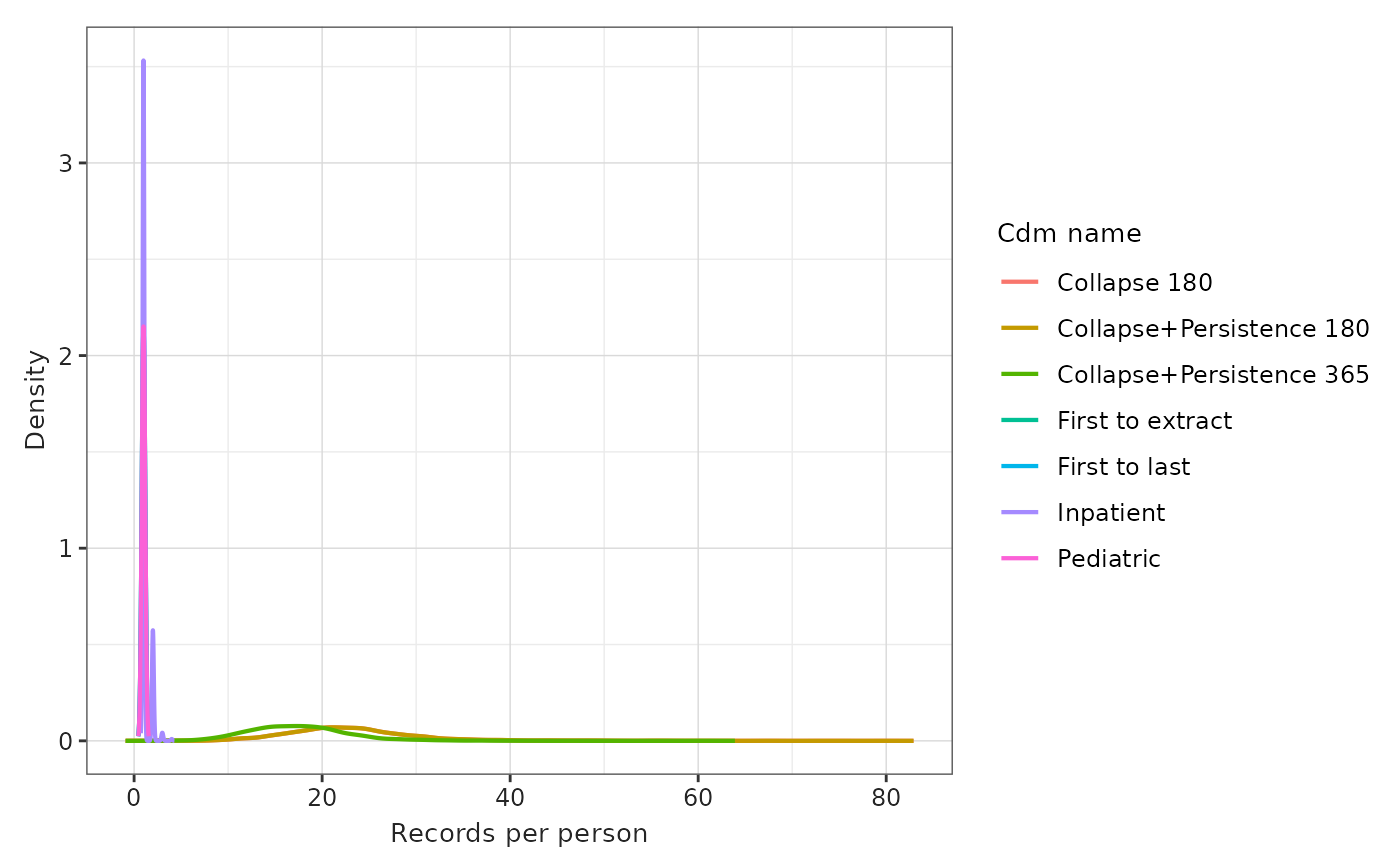
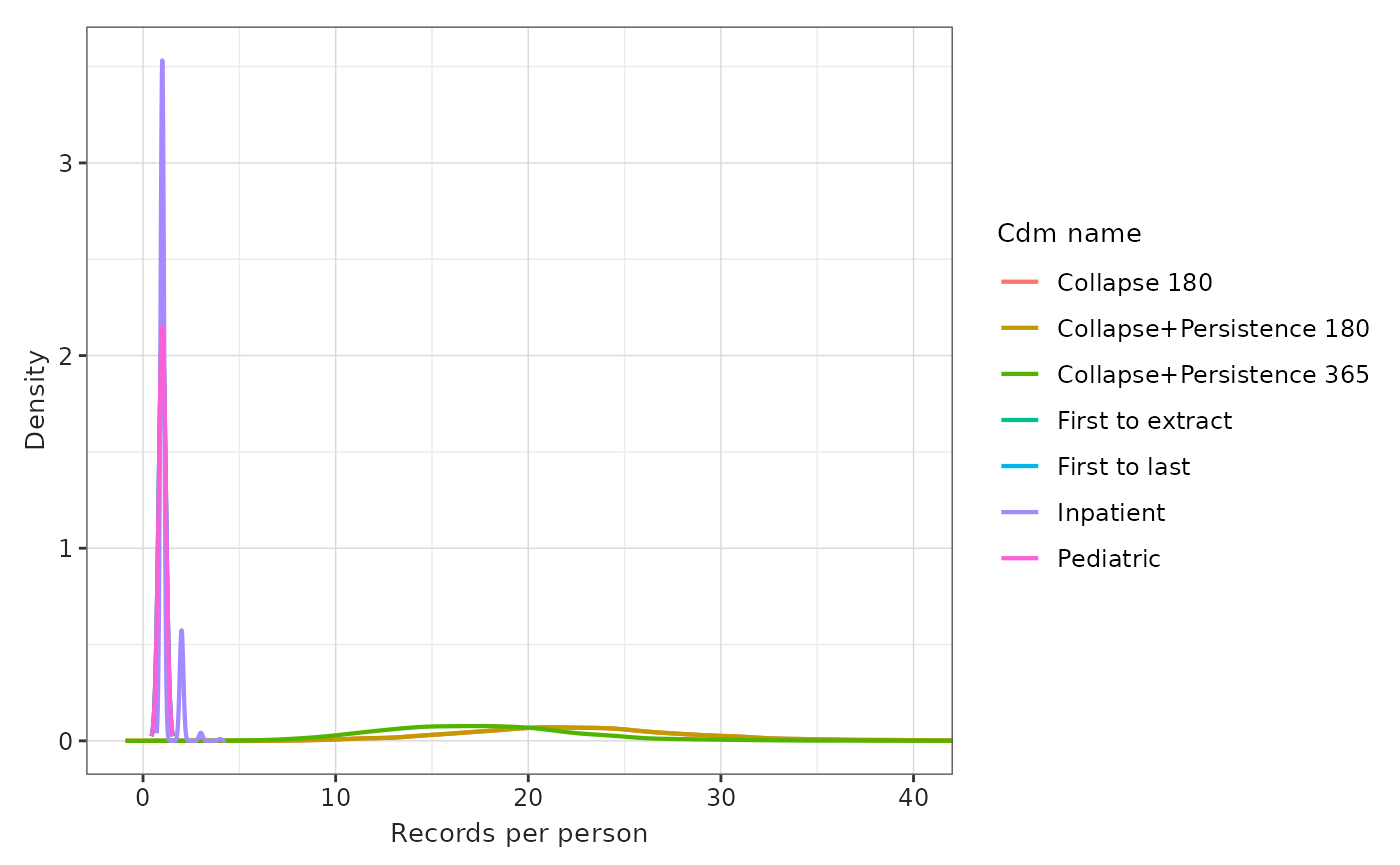
Deploying to gh-pages from @ OHDSI/OmopConstructor@dbc69780eb3df9485f834a7af5ba7b5c8294376d 🚀

diff --git a/articles/generateObservationPeriod.html b/articles/generateObservationPeriod.html
@@ -190,11 +190,17 @@ compare the different definitions at the end.</p>
 <code>censorAge = 120</code> and
 <code>censorDate = as.Date("2020-01-01")</code>. Note also that if a
 death record is in the database the person will automatically be
-censored that day.</p>
+censored that day. Unless otherwise specified by adjusting the
+<code>recordsFrom</code> argument, records contributing to the
+observation period are searched for in the following tables:
+<code>drug_exposure</code>, <code>condition_occurrence</code>,
+<code>procedure_occurrence</code>, <code>visit_occurrence</code>,
+<code>device_exposure</code>, <code>measurement</code>,
+<code>observation</code>, and <code>death</code>.</p>
 <div class="section level3">
 <h3 id="first-to-extraction">First to extraction<a class="anchor" aria-label="anchor" href="#first-to-extraction"></a>
 </h3>
-<p>To built observation period that span from the first record to the
+<p>To build observation period that span from the first record to the
 data extraction we will need to set the <code>collapseEra</code> and
 <code>persistenceWindow</code> to <code>Inf</code> as we want to span
 the observation period till the extraction of data.</p>
@@ -215,14 +221,14 @@ the observation period till the extraction of data.</p>
 <span>                                   output <span class="op">=</span> <span class="fu"><a href="https://rdrr.io/r/base/c.html" class="external-link">c</a></span><span class="op">(</span><span class="st">"person-days"</span>, <span class="st">"age"</span><span class="op">)</span><span class="op">)</span></span>
 <span><span class="co">#&gt; <span style="color: #00BBBB;">ℹ</span> The following estimates will be computed:</span></span>
 <span><span class="co">#&gt; <span style="color: #00BBBB;">•</span> age: median</span></span>
-<span><span class="co">#&gt; → Start summary of data, at 2025-09-10 15:06:32.786628</span></span>
+<span><span class="co">#&gt; → Start summary of data, at 2025-09-11 09:08:02.826287</span></span>
 <span><span class="co">#&gt; </span></span>
-<span><span class="co">#&gt; <span style="color: #00BB00;">✔</span> Summary finished, at 2025-09-10 15:06:32.862676</span></span>
+<span><span class="co">#&gt; <span style="color: #00BB00;">✔</span> Summary finished, at 2025-09-11 09:08:02.905022</span></span>
 <span><span class="co">#&gt; <span style="color: #00BBBB;">ℹ</span> The following estimates will be computed:</span></span>
 <span><span class="co">#&gt; <span style="color: #00BBBB;">•</span> age: median</span></span>
-<span><span class="co">#&gt; → Start summary of data, at 2025-09-10 15:06:34.514092</span></span>
+<span><span class="co">#&gt; → Start summary of data, at 2025-09-11 09:08:04.604296</span></span>
 <span><span class="co">#&gt; </span></span>
-<span><span class="co">#&gt; <span style="color: #00BB00;">✔</span> Summary finished, at 2025-09-10 15:06:34.655268</span></span>
+<span><span class="co">#&gt; <span style="color: #00BB00;">✔</span> Summary finished, at 2025-09-11 09:08:04.735399</span></span>
 <span></span>
 <span><span class="co"># change cdm_name to identify the different results objects</span></span>
 <span><span class="va">result1</span> <span class="op">&lt;-</span> <span class="fu"><a href="https://darwin-eu.github.io/omopgenerics/reference/bind.html" class="external-link">bind</a></span><span class="op">(</span><span class="va">result1a</span>, <span class="va">result1b</span><span class="op">)</span> <span class="op">|&gt;</span></span>
@@ -256,14 +262,14 @@ observation.</p>
 <span>                                   output <span class="op">=</span> <span class="fu"><a href="https://rdrr.io/r/base/c.html" class="external-link">c</a></span><span class="op">(</span><span class="st">"person-days"</span>, <span class="st">"age"</span><span class="op">)</span><span class="op">)</span></span>
 <span><span class="co">#&gt; <span style="color: #00BBBB;">ℹ</span> The following estimates will be computed:</span></span>
 <span><span class="co">#&gt; <span style="color: #00BBBB;">•</span> age: median</span></span>
-<span><span class="co">#&gt; → Start summary of data, at 2025-09-10 15:06:39.857143</span></span>
+<span><span class="co">#&gt; → Start summary of data, at 2025-09-11 09:08:09.791722</span></span>
 <span><span class="co">#&gt; </span></span>
-<span><span class="co">#&gt; <span style="color: #00BB00;">✔</span> Summary finished, at 2025-09-10 15:06:39.942081</span></span>
+<span><span class="co">#&gt; <span style="color: #00BB00;">✔</span> Summary finished, at 2025-09-11 09:08:09.875027</span></span>
 <span><span class="co">#&gt; <span style="color: #00BBBB;">ℹ</span> The following estimates will be computed:</span></span>
 <span><span class="co">#&gt; <span style="color: #00BBBB;">•</span> age: median</span></span>
-<span><span class="co">#&gt; → Start summary of data, at 2025-09-10 15:06:41.491076</span></span>
+<span><span class="co">#&gt; → Start summary of data, at 2025-09-11 09:08:11.459893</span></span>
 <span><span class="co">#&gt; </span></span>
-<span><span class="co">#&gt; <span style="color: #00BB00;">✔</span> Summary finished, at 2025-09-10 15:06:41.615027</span></span>
+<span><span class="co">#&gt; <span style="color: #00BB00;">✔</span> Summary finished, at 2025-09-11 09:08:11.608663</span></span>
 <span></span>
 <span><span class="co"># change cdm_name to identify the different results objects</span></span>
 <span><span class="va">result2</span> <span class="op">&lt;-</span> <span class="fu"><a href="https://darwin-eu.github.io/omopgenerics/reference/bind.html" class="external-link">bind</a></span><span class="op">(</span><span class="va">result2a</span>, <span class="va">result2b</span><span class="op">)</span> <span class="op">|&gt;</span></span>
@@ -301,14 +307,14 @@ denominator.</p>
 <span>                                   output <span class="op">=</span> <span class="fu"><a href="https://rdrr.io/r/base/c.html" class="external-link">c</a></span><span class="op">(</span><span class="st">"person-days"</span>, <span class="st">"age"</span><span class="op">)</span><span class="op">)</span></span>
 <span><span class="co">#&gt; <span style="color: #00BBBB;">ℹ</span> The following estimates will be computed:</span></span>
 <span><span class="co">#&gt; <span style="color: #00BBBB;">•</span> age: median</span></span>
-<span><span class="co">#&gt; → Start summary of data, at 2025-09-10 15:06:45.254752</span></span>
+<span><span class="co">#&gt; → Start summary of data, at 2025-09-11 09:08:15.421711</span></span>
 <span><span class="co">#&gt; </span></span>
-<span><span class="co">#&gt; <span style="color: #00BB00;">✔</span> Summary finished, at 2025-09-10 15:06:45.330321</span></span>
+<span><span class="co">#&gt; <span style="color: #00BB00;">✔</span> Summary finished, at 2025-09-11 09:08:15.505452</span></span>
 <span><span class="co">#&gt; <span style="color: #00BBBB;">ℹ</span> The following estimates will be computed:</span></span>
 <span><span class="co">#&gt; <span style="color: #00BBBB;">•</span> age: median</span></span>
-<span><span class="co">#&gt; → Start summary of data, at 2025-09-10 15:06:46.555108</span></span>
+<span><span class="co">#&gt; → Start summary of data, at 2025-09-11 09:08:16.779017</span></span>
 <span><span class="co">#&gt; </span></span>
-<span><span class="co">#&gt; <span style="color: #00BB00;">✔</span> Summary finished, at 2025-09-10 15:06:46.659151</span></span>
+<span><span class="co">#&gt; <span style="color: #00BB00;">✔</span> Summary finished, at 2025-09-11 09:08:16.877416</span></span>
 <span></span>
 <span><span class="co"># change cdm_name to identify the different results objects</span></span>
 <span><span class="va">result3</span> <span class="op">&lt;-</span> <span class="fu"><a href="https://darwin-eu.github.io/omopgenerics/reference/bind.html" class="external-link">bind</a></span><span class="op">(</span><span class="va">result3a</span>, <span class="va">result3b</span><span class="op">)</span> <span class="op">|&gt;</span></span>
@@ -338,14 +344,14 @@ after the records.</p>
 <span>                                   output <span class="op">=</span> <span class="fu"><a href="https://rdrr.io/r/base/c.html" class="external-link">c</a></span><span class="op">(</span><span class="st">"person-days"</span>, <span class="st">"age"</span><span class="op">)</span><span class="op">)</span></span>
 <span><span class="co">#&gt; <span style="color: #00BBBB;">ℹ</span> The following estimates will be computed:</span></span>
 <span><span class="co">#&gt; <span style="color: #00BBBB;">•</span> age: median</span></span>
-<span><span class="co">#&gt; → Start summary of data, at 2025-09-10 15:06:51.49395</span></span>
+<span><span class="co">#&gt; → Start summary of data, at 2025-09-11 09:08:21.710388</span></span>
 <span><span class="co">#&gt; </span></span>
-<span><span class="co">#&gt; <span style="color: #00BB00;">✔</span> Summary finished, at 2025-09-10 15:06:51.572844</span></span>
+<span><span class="co">#&gt; <span style="color: #00BB00;">✔</span> Summary finished, at 2025-09-11 09:08:21.792131</span></span>
 <span><span class="co">#&gt; <span style="color: #00BBBB;">ℹ</span> The following estimates will be computed:</span></span>
 <span><span class="co">#&gt; <span style="color: #00BBBB;">•</span> age: median</span></span>
-<span><span class="co">#&gt; → Start summary of data, at 2025-09-10 15:06:53.182265</span></span>
+<span><span class="co">#&gt; → Start summary of data, at 2025-09-11 09:08:23.439373</span></span>
 <span><span class="co">#&gt; </span></span>
-<span><span class="co">#&gt; <span style="color: #00BB00;">✔</span> Summary finished, at 2025-09-10 15:06:53.301718</span></span>
+<span><span class="co">#&gt; <span style="color: #00BB00;">✔</span> Summary finished, at 2025-09-11 09:08:23.549459</span></span>
 <span></span>
 <span><span class="co"># change cdm_name to identify the different results objects</span></span>
 <span><span class="va">result4</span> <span class="op">&lt;-</span> <span class="fu"><a href="https://darwin-eu.github.io/omopgenerics/reference/bind.html" class="external-link">bind</a></span><span class="op">(</span><span class="va">result4a</span>, <span class="va">result4b</span><span class="op">)</span> <span class="op">|&gt;</span></span>
@@ -375,14 +381,14 @@ well as we want to add 180 days after any record.</p>
 <span>                                   output <span class="op">=</span> <span class="fu"><a href="https://rdrr.io/r/base/c.html" class="external-link">c</a></span><span class="op">(</span><span class="st">"person-days"</span>, <span class="st">"age"</span><span class="op">)</span><span class="op">)</span></span>
 <span><span class="co">#&gt; <span style="color: #00BBBB;">ℹ</span> The following estimates will be computed:</span></span>
 <span><span class="co">#&gt; <span style="color: #00BBBB;">•</span> age: median</span></span>
-<span><span class="co">#&gt; → Start summary of data, at 2025-09-10 15:06:58.218616</span></span>
+<span><span class="co">#&gt; → Start summary of data, at 2025-09-11 09:08:28.456678</span></span>
 <span><span class="co">#&gt; </span></span>
-<span><span class="co">#&gt; <span style="color: #00BB00;">✔</span> Summary finished, at 2025-09-10 15:06:58.306367</span></span>
+<span><span class="co">#&gt; <span style="color: #00BB00;">✔</span> Summary finished, at 2025-09-11 09:08:28.545068</span></span>
 <span><span class="co">#&gt; <span style="color: #00BBBB;">ℹ</span> The following estimates will be computed:</span></span>
 <span><span class="co">#&gt; <span style="color: #00BBBB;">•</span> age: median</span></span>
-<span><span class="co">#&gt; → Start summary of data, at 2025-09-10 15:06:59.943988</span></span>
+<span><span class="co">#&gt; → Start summary of data, at 2025-09-11 09:08:30.233549</span></span>
 <span><span class="co">#&gt; </span></span>
-<span><span class="co">#&gt; <span style="color: #00BB00;">✔</span> Summary finished, at 2025-09-10 15:07:00.057716</span></span>
+<span><span class="co">#&gt; <span style="color: #00BB00;">✔</span> Summary finished, at 2025-09-11 09:08:30.359493</span></span>
 <span></span>
 <span><span class="co"># change cdm_name to identify the different results objects</span></span>
 <span><span class="va">result5</span> <span class="op">&lt;-</span> <span class="fu"><a href="https://darwin-eu.github.io/omopgenerics/reference/bind.html" class="external-link">bind</a></span><span class="op">(</span><span class="va">result5a</span>, <span class="va">result5b</span><span class="op">)</span> <span class="op">|&gt;</span></span>
@@ -410,14 +416,14 @@ analogously to the previous definition.</p>
 <span>                                   output <span class="op">=</span> <span class="fu"><a href="https://rdrr.io/r/base/c.html" class="external-link">c</a></span><span class="op">(</span><span class="st">"person-days"</span>, <span class="st">"age"</span><span class="op">)</span><span class="op">)</span></span>
 <span><span class="co">#&gt; <span style="color: #00BBBB;">ℹ</span> The following estimates will be computed:</span></span>
 <span><span class="co">#&gt; <span style="color: #00BBBB;">•</span> age: median</span></span>
-<span><span class="co">#&gt; → Start summary of data, at 2025-09-10 15:07:04.970721</span></span>
+<span><span class="co">#&gt; → Start summary of data, at 2025-09-11 09:08:35.253597</span></span>
 <span><span class="co">#&gt; </span></span>
-<span><span class="co">#&gt; <span style="color: #00BB00;">✔</span> Summary finished, at 2025-09-10 15:07:05.0492</span></span>
+<span><span class="co">#&gt; <span style="color: #00BB00;">✔</span> Summary finished, at 2025-09-11 09:08:35.331795</span></span>
 <span><span class="co">#&gt; <span style="color: #00BBBB;">ℹ</span> The following estimates will be computed:</span></span>
 <span><span class="co">#&gt; <span style="color: #00BBBB;">•</span> age: median</span></span>
-<span><span class="co">#&gt; → Start summary of data, at 2025-09-10 15:07:06.587508</span></span>
+<span><span class="co">#&gt; → Start summary of data, at 2025-09-11 09:08:36.907349</span></span>
 <span><span class="co">#&gt; </span></span>
-<span><span class="co">#&gt; <span style="color: #00BB00;">✔</span> Summary finished, at 2025-09-10 15:07:06.709026</span></span>
+<span><span class="co">#&gt; <span style="color: #00BB00;">✔</span> Summary finished, at 2025-09-11 09:08:37.027424</span></span>
 <span></span>
 <span><span class="co"># change cdm_name to identify the different results objects</span></span>
 <span><span class="va">result6</span> <span class="op">&lt;-</span> <span class="fu"><a href="https://darwin-eu.github.io/omopgenerics/reference/bind.html" class="external-link">bind</a></span><span class="op">(</span><span class="va">result6a</span>, <span class="va">result6b</span><span class="op">)</span> <span class="op">|&gt;</span></span>
@@ -448,14 +454,14 @@ specialised cares.</p>
 <span>                                   output <span class="op">=</span> <span class="fu"><a href="https://rdrr.io/r/base/c.html" class="external-link">c</a></span><span class="op">(</span><span class="st">"person-days"</span>, <span class="st">"age"</span><span class="op">)</span><span class="op">)</span></span>
 <span><span class="co">#&gt; <span style="color: #00BBBB;">ℹ</span> The following estimates will be computed:</span></span>
 <span><span class="co">#&gt; <span style="color: #00BBBB;">•</span> age: median</span></span>
-<span><span class="co">#&gt; → Start summary of data, at 2025-09-10 15:07:11.153546</span></span>
+<span><span class="co">#&gt; → Start summary of data, at 2025-09-11 09:08:41.472969</span></span>
 <span><span class="co">#&gt; </span></span>
-<span><span class="co">#&gt; <span style="color: #00BB00;">✔</span> Summary finished, at 2025-09-10 15:07:11.22878</span></span>
+<span><span class="co">#&gt; <span style="color: #00BB00;">✔</span> Summary finished, at 2025-09-11 09:08:41.558098</span></span>
 <span><span class="co">#&gt; <span style="color: #00BBBB;">ℹ</span> The following estimates will be computed:</span></span>
 <span><span class="co">#&gt; <span style="color: #00BBBB;">•</span> age: median</span></span>
-<span><span class="co">#&gt; → Start summary of data, at 2025-09-10 15:07:12.559219</span></span>
+<span><span class="co">#&gt; → Start summary of data, at 2025-09-11 09:08:42.929518</span></span>
 <span><span class="co">#&gt; </span></span>
-<span><span class="co">#&gt; <span style="color: #00BB00;">✔</span> Summary finished, at 2025-09-10 15:07:12.679793</span></span>
+<span><span class="co">#&gt; <span style="color: #00BB00;">✔</span> Summary finished, at 2025-09-11 09:08:43.035444</span></span>
 <span></span>
 <span><span class="co"># change cdm_name to identify the different results objects</span></span>
 <span><span class="va">result7</span> <span class="op">&lt;-</span> <span class="fu"><a href="https://darwin-eu.github.io/omopgenerics/reference/bind.html" class="external-link">bind</a></span><span class="op">(</span><span class="va">result7a</span>, <span class="va">result7b</span><span class="op">)</span> <span class="op">|&gt;</span></span>
@@ -1108,7 +1114,8 @@ statistics looking at the plots:</p>
 <code class="sourceCode R"><span><span class="fu"><a href="https://OHDSI.github.io/OmopSketch/reference/plotObservationPeriod.html" class="external-link">plotObservationPeriod</a></span><span class="op">(</span>result <span class="op">=</span> <span class="va">result</span>, </span>
 <span>                      variableName <span class="op">=</span> <span class="st">"Records per person"</span>,</span>
 <span>                      plotType <span class="op">=</span> <span class="st">"densityplot"</span>, </span>
-<span>                      colour <span class="op">=</span> <span class="st">"cdm_name"</span><span class="op">)</span></span></code></pre></div>
+<span>                      colour <span class="op">=</span> <span class="st">"cdm_name"</span><span class="op">)</span> <span class="op">+</span></span>
+<span>  <span class="fu">ggplot2</span><span class="fu">::</span><span class="fu"><a href="https://ggplot2.tidyverse.org/reference/coord_cartesian.html" class="external-link">coord_cartesian</a></span><span class="op">(</span>xlim <span class="op">=</span> <span class="fu"><a href="https://rdrr.io/r/base/c.html" class="external-link">c</a></span><span class="op">(</span><span class="cn">NA</span>, <span class="fl">40</span><span class="op">)</span><span class="op">)</span></span></code></pre></div>
 <p><img src="generateObservationPeriod_files/figure-html/unnamed-chunk-11-1.png" width="700"></p>
 <p>As expected for example we can see that using a window of 180 creates
 more observation periods that using the 365 collapse window, this is
@@ -1155,11 +1162,15 @@ denominator of an incidence or prevalence study.</p>
 <span><span class="co">#&gt; `result_id` is not present in <span style="color: #0000BB;">result</span>.</span></span>
 <span><span class="co">#&gt; `result_id` is not present in <span style="color: #0000BB;">result</span>.</span></span></code></pre></div>
 <p><img src="generateObservationPeriod_files/figure-html/unnamed-chunk-13-1.png" width="700"></p>
-<p>In this plot there are some trends worth remarking: - A larger gap
-increases the observation time (green vs yellow) - Adding a persistence
-window increases quite a bit the observable time (red vs green) - Using
-the first to last approach lead to less individuals being in observation
-towards the end of the observation window.</p>
+<p>In this plot there are some trends worth remarking:</p>
+<ul>
+<li><p>A larger gap increases the observation time (green vs
+yellow)</p></li>
+<li><p>Adding a persistence window increases quite a bit the observable
+time (red vs green)</p></li>
+<li><p>Using the first to last approach lead to less individuals being
+in observation towards the end of the observation window.</p></li>
+</ul>
 <p>Finally, to show more in depth the findings we can see the evolution
 of the median age of the individuals in observation:</p>
 <div class="sourceCode" id="cb14"><pre class="downlit sourceCode r">
